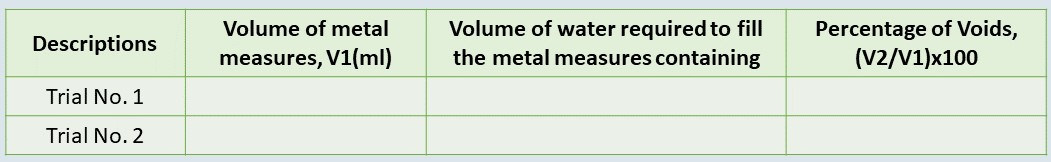
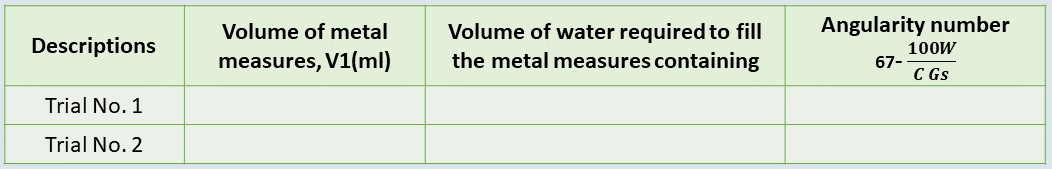
updated step 12

diff --git a/experiment/simulation/index.html b/experiment/simulation/index.html
@@ -52,7 +52,7 @@
               <div
                 class="mainstep"
                 id="step1"
-                style="visibility: hidden; z-index: 1000"
+                style="visibility: visible; z-index: 1000"
               >
                 <strong
                   class="incanvas"
@@ -2206,7 +2206,7 @@ please use border to place and visualize arrows, transbox and all html elements 
                   type="button"
                   id="next-to-step12"
                   style="
-                    visibility: visible;
+                    visibility: hidden;
                     position: absolute;
                     left: 720px;
                     top: 510px;
@@ -2267,6 +2267,54 @@ please use border to place and visualize arrows, transbox and all html elements 
                   </i></span
                 >
 
+                <!-- TEXT  -->
+
+                <p id="repeat"
+                    style="
+                    display: inline-block;
+                    position: absolute;
+                    border: 1px solid black;
+                    font-family: Arial, Helvetica, sans-serif;
+                    font-weight: bold;
+                    padding: 7px;
+                    top: 70px;
+                    left: 100px;
+                    "
+                >
+                  Repeat the same procedure for the second set of observations.
+                </p>
+
+                <p id="avg"
+                    style="
+                    display: inline-block;
+                    position: absolute;
+                    font-family: Arial, Helvetica, sans-serif;
+                    font-weight: bold;
+                    letter-spacing: 1.5px;
+                    top: 120px;
+                    left: 100px;
+                    ">
+                    Average Specific gravity of aggregates G<sub>s</sub> is equal to 2.7
+                </p>
+
+                <p id="conclusion-step12"
+                    style="
+                    visibility: hidden;
+                    display: inline-block;
+                    position: absolute;
+                    top: 380px;
+                    left: 5px;
+                    font-family: Arial, Helvetica, sans-serif;
+                    letter-spacing: 1.5px;
+                    line-height: 20px;
+                    border: 2px solid rgb(156, 243, 25);
+                    background-color: rgb(225, 248, 191);
+                    width: 750px;
+                    padding: 7px;
+                    ">
+                  <span style="font-weight: bold; text-decoration: underline;">Conclusion-</span> According to IS: 2386 (Part 1)-1963, the given sample of coarse aggregate can be considered suitable for construction purposes. The general range of angularity number for aggregate used in construction is 0-11. More is the angularity number, less workable is the concrete mix.
+                </p>
+
                 <!-- IMAGES  -->
 
                 <img
@@ -2274,13 +2322,13 @@ please use border to place and visualize arrows, transbox and all html elements 
                   id="png1-step12"
                   alt="image"
                   class="board"
-                  width="700"
+                  width="750"
                   height="150"
                   style="
                     visibility: hidden;
                     position: absolute;
-                    margin-left: 40px;
-                    margin-top: 100px;
+                    margin-left: 15px;
+                    margin-top: 180px;
                   "
                 />
 
@@ -2289,28 +2337,28 @@ please use border to place and visualize arrows, transbox and all html elements 
                   id="png2-step12"
                   alt="image"
                   class="board"
-                  width="700"
+                  width="750"
                   height="150"
                   style="
                     visibility: hidden;
                     position: absolute;
-                    margin-left: 40px;
-                    margin-top: 100px;
+                    margin-left: 15px;
+                    margin-top: 180px;
                   "
                 />
 
                 <img
-                  src="images/step12-png3.jpg"
+                  src="images/step12-png3.png"
                   id="png3-step12"
                   alt="image"
                   class="board"
-                  width="700"
-                  height="400"
+                  width="750"
+                  height="175"
                   style="
                     visibility: hidden;
                     position: absolute;
-                    margin-left: 40px;
-                    margin-top: 100px;
+                    margin-left: 15px;
+                    margin-top: 180px;
                   "
                 />
 
@@ -2359,7 +2407,7 @@ please use border to place and visualize arrows, transbox and all html elements 
                   style="
                     visibility: hidden;
                     position: absolute;
-                    left: 700px;
+                    left: 690px;
                     top: 510px;
                     cursor: pointer;
                     font-size: 15px;

diff --git a/experiment/simulation/js/main.js b/experiment/simulation/js/main.js
@@ -732,6 +732,7 @@ function myStopFunction() {
     document.querySelector("#reading-fill-2-step12").style.visibility = "hidden";
     
     document.querySelector("#png3-step12").style.visibility = "visible";
+    document.querySelector("#conclusion-step12").style.visibility = "visible";
     
     setTimeout(() => {
       document.querySelector("#next-to-postTest").style.visibility = "visible";
